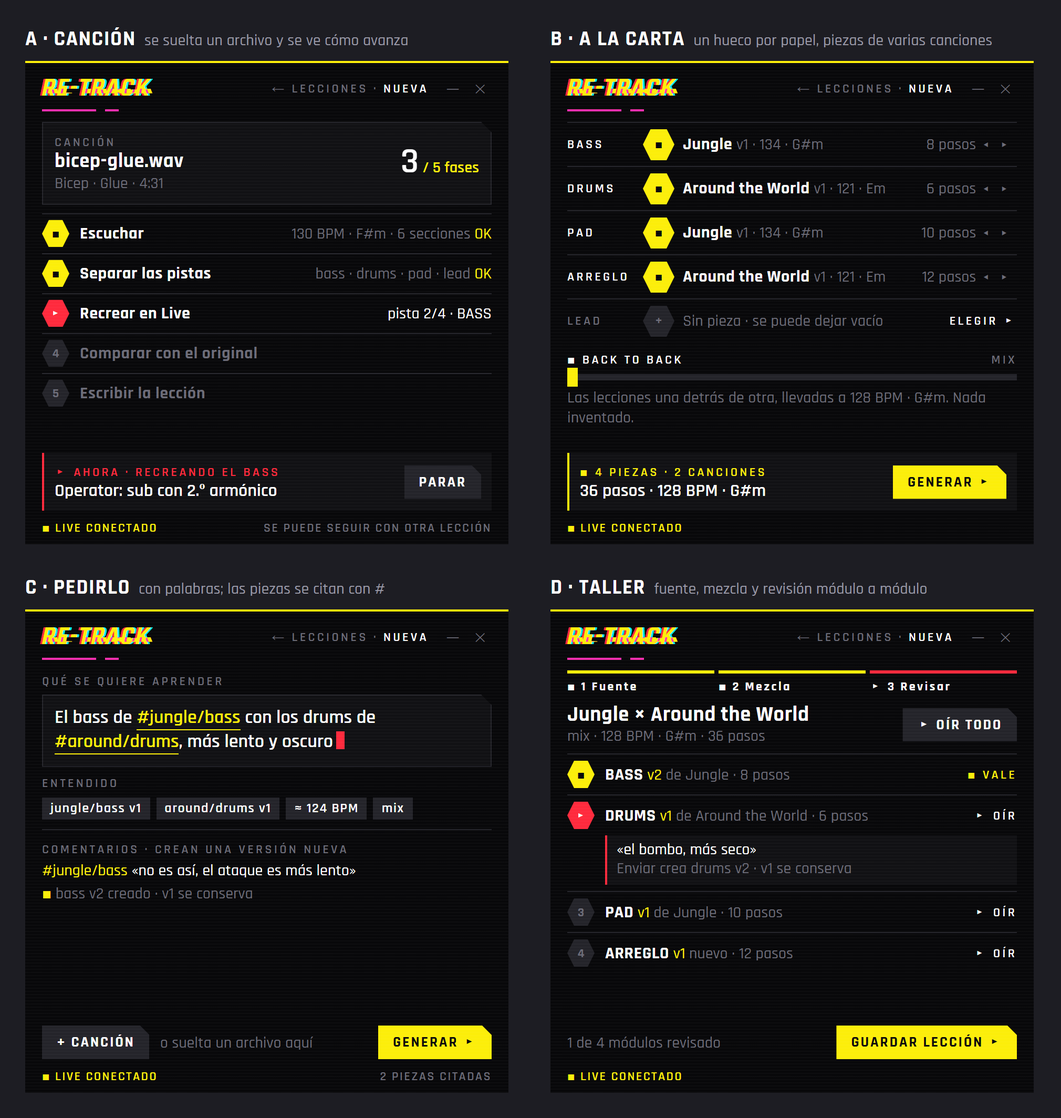
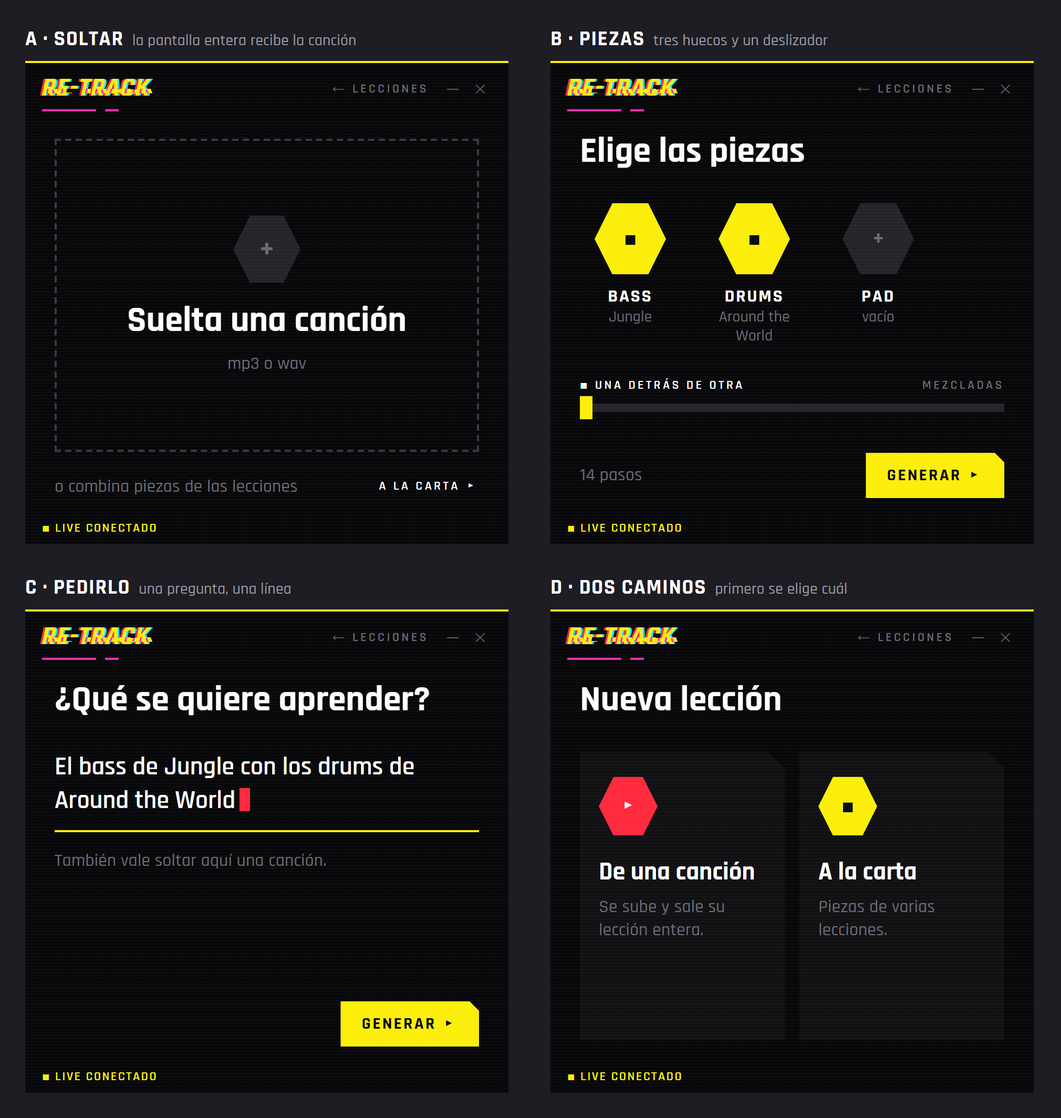
Docs: second round of home and new-lesson proposals, with room to breathe

diff --git a/docs/design/inicio/propuestas.html b/docs/design/inicio/propuestas.html
@@ -2,131 +2,84 @@
 <html lang="es">
 <head>
 <meta charset="utf-8">
-<title>Re-track · pantalla de inicio · cuatro propuestas</title>
-<!-- Cuatro propuestas de la pantalla de inicio (2026-11-24): qué canciones hay, cómo va cada una y por dónde se sigue.
-     Ventana real: 460×460. Jungle y Primera lección salen de lecciones/*.json (módulos, pasos, tempo, tonalidad);
-     su progreso, «Around the World» y «Glue» son de muestra. -->
+<title>Re-track · pantalla de inicio · cuatro propuestas (segunda ronda, con aire)</title>
+<!-- Segunda ronda (2026-11-24): la primera se descartó por apretada («no podemos respirar»). Regla de esta ronda: tres cosas
+     por pantalla como mucho, letra grande, separar con espacio y no con líneas. Ventana real: 460×460.
+     Jungle y Primera lección salen de lecciones/*.json; su progreso y «Around the World» son de muestra. -->
 <link rel="stylesheet" href="../propuestas.css">
 <style>
-  .titulo { display: flex; justify-content: space-between; align-items: baseline; margin-bottom: 6px; }
+  .aire { position: absolute; inset: 58px 28px 36px; display: flex; flex-direction: column; }
+  .fila { display: flex; align-items: center; gap: 14px; }
+  .gr { flex: 1; min-width: 0; }
+  .suave { font-size: 17px; color: var(--tenue); }
+  .cta.gr2 { padding: 11px 20px; font-size: 16px; }
+  .bloques { height: 8px; }
+  .abajo { margin-top: auto; margin-bottom: 8px; }
 
-  /* A · Lista */
-  .a-fila { display: grid; grid-template-columns: 30px 1fr auto; gap: 4px 10px; align-items: center; padding: 8px 0 9px; border-top: 1px solid var(--linea); }
-  .a-fila b { font: 700 17px/1 Rajdhani; color: #fff; letter-spacing: .02em; }
-  .a-fila small { font-size: 14px; color: var(--tenue); margin-left: 6px; }
-  .a-fila .pct { font: 600 20px/1 Rajdhani; }
-  .a-fila .bloques { grid-column: 2 / 4; }
-  .nueva { display: flex; justify-content: space-between; align-items: center; padding: 8px 0; border-top: 1px solid var(--linea); border-bottom: 1px solid var(--linea); margin-bottom: 8px; }
+  .a-nombre { font: 700 60px/1 Rajdhani; color: #fff; margin: 6px 0 4px; }
+  .a-pct { font: 600 34px/1 Rajdhani; color: var(--amarillo); }
 
-  /* B · Portada */
-  .b-hero { padding: 10px 12px 12px; }
-  .b-hero .nombre { font: 700 38px/1 Rajdhani; color: #fff; letter-spacing: .01em; }
-  .b-hero .pct { font: 600 38px/1 Rajdhani; color: var(--amarillo); }
-  .b-hero p { margin: 9px 0 0; display: flex; align-items: center; gap: 10px; }
-  .b-hero p > span:first-child { flex: 1; min-width: 0; }
-  .b-hero strong { display: block; font: 600 16px/1.15 Rajdhani; color: #fff; }
-  .b-rejilla { display: grid; grid-template-columns: 1fr 1fr; gap: 8px; margin-top: 8px; }
-  .b-rejilla > div { padding: 8px 10px 10px; height: 92px; box-sizing: border-box; display: flex; flex-direction: column; justify-content: space-between; }
-  .b-rejilla b { display: block; font: 700 16px/1.1 Rajdhani; color: #fff; }
-  .b-rejilla .mas { border: 1px dashed #3a3a44; background: none; clip-path: none; }
+  .b-fila { height: 92px; }
+  .b-fila .hex, .mas { width: 44px; height: 44px; font-size: 15px; }
+  .b-fila b { display: block; font: 700 26px/1.1 Rajdhani; color: #fff; }
+  .b-fila .pct { font: 600 26px/1 Rajdhani; }
 
-  /* C · Piezas */
-  .c-fila { padding: 6px 0 7px; border-top: 1px solid var(--linea); }
-  .c-fila .piezas { display: flex; gap: 4px; margin-top: 6px; }
-  .c-fila .pieza { width: 58px; text-align: center; font: 600 11px/1 Rajdhani; letter-spacing: .08em; color: var(--tenue); }
-  .c-fila .pieza .hex { margin: 0 auto 3px; }
-  .c-fila .pieza.viva { color: #fff; }
+  .c-hexes { display: flex; justify-content: space-between; align-items: flex-start; margin-top: 34px; }
+  .c-hexes > div { width: 92px; text-align: center; line-height: 1.2; }
+  .c-hexes .hex { width: 68px; height: 68px; margin: 0 auto 12px; font-size: 20px; }
+  .c-hexes b { display: block; font: 700 17px/1.1 Rajdhani; color: #fff; }
 
-  /* D · Dos puertas */
-  .d-puerta { padding: 9px 12px 11px; }
-  .d-puerta + .d-puerta { margin-top: 8px; }
-  .d-otras > :nth-child(even) { text-align: right; }
-  .d-otras { display: grid; grid-template-columns: 1fr auto; gap: 3px 10px; margin-top: 9px; padding-top: 7px; border-top: 1px solid var(--linea); font-size: 15px; }
-  .d-suelta { display: flex; align-items: center; gap: 10px; margin-top: 7px; padding: 9px 10px; border: 1px dashed #3a3a44; }
-  .d-suelta > span:first-child { flex: 1; }
-  .d-suelta strong { display: block; font: 600 16px/1.15 Rajdhani; color: #fff; }
+  .d-grande { margin-top: 14px; padding: 22px 24px 24px; background: var(--amarillo); color: #08080a;
+    clip-path: polygon(0 0, calc(100% - 18px) 0, 100% 18px, 100% 100%, 0 100%); }
+  .d-grande b { display: block; font: 700 44px/1 Rajdhani; margin: 2px 0 6px; }
+  .d-grande span { font: 600 17px Rajdhani; }
+  .d-otra { padding: 18px 24px; background: var(--panel); margin-top: 12px; font: 700 22px Rajdhani; color: #fff; }
 </style>
 </head>
 <body>
 <script>
-// [módulo, pasos, hechos]. Jungle y Primera lección: lecciones/*.json. Las otras dos son de muestra.
+// [pasos, hechos] por módulo.
 const L = [
-  { t: "Jungle", a: "Fred again..", bpm: 134, k: "G#m", m: [["PAD", 10, 10], ["LEAD", 7, 7], ["BASS", 8, 6], ["DRUMS", 8, 0], ["ARREGLO", 13, 0], ["MEZCLA", 6, 0]] },
-  { t: "Around the World", a: "Daft Punk", bpm: 121, k: "Em", m: [["BASS", 9, 0], ["DRUMS", 6, 0], ["GUITARRA", 7, 0], ["VOCODER", 8, 0], ["ARREGLO", 12, 0]] },
-  { t: "Primera lección", a: "Re-track", bpm: 124, k: "C", m: [["BASE", 3, 3]] },
-  { t: "Glue", a: "Bicep", bpm: 130, k: "F#m", m: [], gen: "Recreando en Live · 3/5" },
+  { t: "Jungle", a: "Fred again..", m: [[10, 10], [7, 7], [8, 6], [8, 0], [13, 0], [6, 0]] },
+  { t: "Around the World", a: "Daft Punk", m: [[9, 0], [6, 0], [7, 0], [8, 0], [12, 0]] },
+  { t: "Primera lección", a: "Re-track", m: [[3, 3]] },
 ];
-const total = (l) => l.m.reduce((s, m) => s + m[1], 0), hechos = (l) => l.m.reduce((s, m) => s + m[2], 0);
+const total = (l) => l.m.reduce((s, m) => s + m[0], 0), hechos = (l) => l.m.reduce((s, m) => s + m[1], 0);
 const pct = (l) => Math.round((hechos(l) / total(l)) * 100);
-const actual = (l) => l.m.find((m) => m[2] < m[1]);
-// Estado de una lección: gen (se está generando), on (completa), sig (empezada), "" (sin empezar).
-const estado = (l) => (l.gen ? "gen" : hechos(l) === total(l) ? "on" : hechos(l) ? "sig" : "");
-const SIMBOLO = { gen: "…", on: "■", sig: "▸", "": "" };
-const cifra = (l) => l.gen ? `<span class="te">…</span>` : estado(l) === "on" ? `<span class="am">■ OK</span>`
-  : `<span class="num ${hechos(l) ? "bl" : "te"}">${pct(l)} %</span>`;
-const meta = (l) => `${l.bpm} BPM · ${l.k}`;
-const bloques = (l) => l.gen ? `<div class="bloques"><i class="hex gen" style="flex:1;clip-path:none;width:auto;height:auto"></i></div>`
-  : `<div class="bloques">${l.m.map((m) => `<i style="flex:${m[1]}"><b style="width:${(m[2] / m[1]) * 100}%"></b>${
-      m === actual(l) && hechos(l) ? `<u style="left:${(m[2] / m[1]) * 100}%"></u>` : ""}</i>`).join("")}</div>`;
-const dos = (n) => String(n).padStart(2, "0");
-const J = L[0], act = actual(J);
-const SIG = { donde: `${J.t} · ${act[0]} ${dos(act[2] + 1)}/${dos(act[1])}`, que: "Osc-B Level → 0.80–0.92" };
+const estado = (l) => (hechos(l) === total(l) ? "on" : hechos(l) ? "sig" : "");
+const SIMBOLO = { on: "■", sig: "▸", "": "" };
+const cifra = (l) => estado(l) === "on" ? `<span class="am">■ OK</span>` : `<span class="num ${hechos(l) ? "bl" : "te"}">${pct(l)} %</span>`;
+const bloques = (l) => `<div class="bloques">${l.m.map((m) => `<i style="flex:${m[0]}"><b style="width:${(m[1] / m[0]) * 100}%"></b></i>`).join("")}</div>`;
+const J = L[0];
 const cab = (ruta) => `<div class="cab"><span class="logo">RE-TRACK</span><span class="ruta">${ruta}</span>
   <span class="vent">―</span><span class="vent">✕</span></div><div class="glitch"></div>`;
-const pie = (der) => `<div class="pie"><span class="am">■ Live conectado</span><span>${der}</span></div>`;
-const sigCaja = `<div class="sig-caja"><div><span class="et ro">▸ Seguir · ${SIG.donde}</span><strong>${SIG.que}</strong></div><span class="cta">Continuar ▸</span></div>`;
-const celda = (letra, nombre, idea, html) =>
-  `<div class="celda"><h2>${letra} · ${nombre}<small>${idea}</small></h2><div class="app">${html}</div></div>`;
-const hechas = L.filter((l) => !l.gen);
+const pie = `<div class="pie"><span class="am">■ Live conectado</span></div>`;
+const celda = (letra, nombre, idea, ruta, html) =>
+  `<div class="celda"><h2>${letra} · ${nombre}<small>${idea}</small></h2><div class="app">${cab(ruta)}<div class="aire">${html}</div>${pie}</div></div>`;
 
-// A · Lista: una fila por canción, la barra dice cuánto y de qué módulo.
-const A = `${cab("<b>Lecciones</b>")}
-  ${L.map((l) => `<div class="a-fila"><span class="hex ${estado(l)}">${SIMBOLO[estado(l)]}</span>
-    <span><b>${l.t}</b><small>${l.a} · ${l.gen ? `<span class="bl">${l.gen}</span>` : meta(l)}</small></span>
-    <span class="pct">${cifra(l)}</span>${bloques(l)}</div>`).join("")}
-  <div class="nueva"><span class="et">+ Nueva lección · sube una canción o combina piezas</span><span class="et bl">▸</span></div>
-  ${sigCaja}${pie(`${hechas.length} lecciones · 1 en marcha`)}`;
+// A · Una a la vez: una sola canción en pantalla; las flechas pasan a la siguiente.
+const A = `<div style="margin-top:22px"><span class="et ro">▸ Donde se dejó</span><div class="a-nombre">${J.t}</div><span class="suave">${J.a}</span></div>
+  <div style="margin-top:34px">${bloques(J)}<div class="fila" style="margin-top:12px"><span class="a-pct num gr">${pct(J)} %</span><span class="suave">Bass · paso 7 de 8</span></div></div>
+  <div class="fila abajo"><span class="suave gr">◂ &nbsp;1 de ${L.length}&nbsp; ▸</span><span class="cta gr2">Continuar ▸</span></div>`;
 
-// B · Portada: donde se dejó, en grande; el resto, en fichas.
-const B = `${cab("<b>Lecciones</b>")}
-  <div class="corte b-hero"><span class="et ro">▸ Donde se dejó</span>
-    <div style="display:flex;justify-content:space-between;align-items:flex-end;margin:2px 0 8px">
-      <div><div class="nombre">${J.t}</div><span class="te">${J.a} · ${meta(J)} · ${J.m.length} módulos</span></div>
-      <div class="pct num">${pct(J)} %</div></div>
-    ${bloques(J)}
-    <p><span><span class="et">${act[0]} · paso ${dos(act[2] + 1)}/${dos(act[1])}</span><strong>${SIG.que}</strong></span><span class="cta">Continuar ▸</span></p></div>
-  <div class="b-rejilla">${L.slice(1).map((l) => `<div class="corte"><span><b>${l.t}</b><span class="te">${l.a} · ${l.gen ? "generando" : meta(l)}</span></span>
-      <span>${l.gen ? `<span class="et bl">… ${l.gen}</span>` : `<span style="display:flex;align-items:center;gap:8px"><span style="flex:1">${bloques(l)}</span>${cifra(l)}</span>`}</span></div>`).join("")}
-    <div class="mas"><b>+ Nueva lección</b><span class="te">una canción o piezas sueltas</span></div></div>
-  ${pie(`${hechas.length} lecciones · 1 en marcha`)}`;
+// B · Tres filas: solo el nombre y el porcentaje; tocar una fila entra en ella.
+const B = `${L.map((l) => `<div class="fila b-fila"><span class="hex ${estado(l)}">${SIMBOLO[estado(l)]}</span>
+    <span class="gr"><b>${l.t}</b><span class="suave">${l.a}</span></span><span class="pct">${cifra(l)}</span></div>`).join("")}
+  <div class="fila abajo"><span class="hex mas bl" style="font-size:18px">+</span><span style="font:700 20px Rajdhani" class="bl">Nueva lección</span></div>`;
 
-// C · Piezas: cada canción enseña sus módulos; se entra directo en cualquiera.
-const pieza = (l, m) => { const e = m[2] >= m[1] ? "on" : m === actual(l) && hechos(l) ? "sig" : "";
-  return `<div class="pieza ${e ? "viva" : ""}"><span class="hex ${e}">${e === "on" ? "■" : e === "sig" ? "▸" : m[1]}</span>${m[0]}</div>`; };
-const C = `${cab("<b>Lecciones</b>")}
-  ${hechas.map((l) => `<div class="c-fila"><div class="titulo" style="margin:0"><span><h1 style="display:inline">${l.t}</h1> <span class="te">${l.a} · ${meta(l)}</span></span>
-      <span style="font:600 17px/1 Rajdhani">${cifra(l)}</span></div><div class="piezas">${l.m.map((m) => pieza(l, m)).join("")}</div></div>`).join("")}
-  <div class="nueva"><span class="et"><span class="bl">… Glue</span> · ${L[3].gen}</span><span class="et bl">+ Nueva ▸</span></div>
-  ${sigCaja}${pie("12 piezas · 3 canciones")}`;
+// C · Camino: las canciones son hexágonos, como los módulos dentro de una lección.
+const C = `<div class="c-hexes">${L.map((l) => `<div><span class="hex ${estado(l)}">${SIMBOLO[estado(l)]}</span><b>${l.t}</b><span class="te">${estado(l) === "on" ? "OK" : pct(l) + " %"}</span></div>`).join("")}
+    <div><span class="hex bl">+</span><b>Nueva</b></div></div>
+  <div class="fila abajo"><span class="gr"><span class="et ro">▸ Jungle</span><br><span style="font:600 20px Rajdhani" class="bl">Bass · paso 7 de 8</span></span><span class="cta gr2">Continuar ▸</span></div>`;
 
-// D · Dos puertas: aprender arriba, crear abajo.
-const D = `${cab("<b>Inicio</b>")}
-  <div class="corte d-puerta"><span class="et ro">▸ Aprender · donde se dejó</span>
-    <div style="display:flex;align-items:center;gap:10px;margin-top:3px"><div style="flex:1;min-width:0">
-      <h1 style="font-size:24px">${J.t} <span class="am num" style="font-weight:600">${pct(J)} %</span></h1>
-      <span class="te">${act[0]} · paso ${dos(act[2] + 1)}/${dos(act[1])}</span><br><b class="bl" style="font-weight:600">${SIG.que}</b></div><span class="cta">Continuar ▸</span></div>
-    <div style="margin-top:8px">${bloques(J)}</div>
-    <div class="d-otras">${L.slice(1, 3).map((l) => `<span><b class="bl">${l.t}</b> <span class="te">${l.a} · ${meta(l)}</span></span>${cifra(l)}`).join("")}
-      <span class="et" style="grid-column:1/3;margin-top:2px">Todas las lecciones (${hechas.length}) ▸</span></div></div>
-  <div class="corte d-puerta"><span class="et">+ Crear · una lección nueva con IA</span>
-    <div class="d-suelta"><span><strong>Suelta aquí una canción</strong><span class="te">mp3 o wav · sale una lección</span></span><span class="sec">Elegir ▸</span></div>
-    <div class="titulo" style="margin:8px 0 0"><span class="et"><span class="bl">… Glue</span> · ${L[3].gen}</span><span class="et bl">A la carta ▸</span></div></div>
-  ${pie("")}`;
+// D · Dos botones: seguir o elegir; nada más.
+const D = `<div class="d-grande"><span>CONTINUAR ▸</span><b>${J.t}</b><span class="num">${pct(J)} % · Bass, paso 7 de 8</span></div>
+  <div class="d-otra fila"><span class="gr">Otra lección</span><span class="suave">${L.length} canciones ▸</span></div>
+  <div class="d-otra fila"><span class="gr">+ Nueva lección</span><span class="suave">con IA ▸</span></div>`;
 
-document.body.innerHTML = celda("A", "LISTA", "una fila por canción", A) + celda("B", "PORTADA", "donde se dejó, en grande", B) +
-  celda("C", "PIEZAS", "cada canción enseña sus módulos", C) + celda("D", "DOS PUERTAS", "aprender arriba, crear abajo", D);
+document.body.innerHTML = celda("A", "UNA A LA VEZ", "una canción en pantalla, flechas para cambiar", "<b>+ Nueva</b>", A) + celda("B", "TRES FILAS", "nombre y porcentaje, nada más", "", B) +
+  celda("C", "CAMINO", "las canciones como hexágonos", "", C) + celda("D", "DOS BOTONES", "seguir o elegir", "", D);
 console.assert(hechos(J) === 23 && total(J) === 52 && pct(J) === 44, "Jungle: 23/52");
-console.assert(hechas.reduce((s, l) => s + l.m.length, 0) === 12, "piezas");
 </script>
 </body>
 </html>

diff --git a/docs/design/ia/propuestas.html b/docs/design/ia/propuestas.html
@@ -2,121 +2,73 @@
 <html lang="es">
 <head>
 <meta charset="utf-8">
-<title>Re-track · pantalla de nueva lección (IA) · cuatro propuestas</title>
-<!-- Cuatro propuestas de la pantalla que genera lecciones con IA (2026-11-24), a partir del esquema de Matthieu del
-     2026-11-03 (docs/DESIGN.md, «Visión ampliada»): subir una canción, piezas de varias canciones, back to back | mix,
-     comentarios pegados a un módulo y versiones. Ventana real: 460×460. Los pasos de Jungle salen de
-     lecciones/jungle.json; «Around the World», «Glue», las fases y los comentarios son de muestra. -->
+<title>Re-track · pantalla de nueva lección (IA) · cuatro propuestas (segunda ronda, con aire)</title>
+<!-- Segunda ronda (2026-11-24): la primera se descartó por apretada. Regla: una sola decisión por pantalla, letra grande,
+     separar con espacio. Parte del esquema de Matthieu del 2026-11-03 (docs/DESIGN.md, «Visión ampliada»).
+     Ventana real: 460×460. Las canciones y los pasos son de muestra. -->
 <link rel="stylesheet" href="../propuestas.css">
 <style>
-  .fila { display: flex; align-items: center; gap: 10px; }
-  .fila > .gr { flex: 1; min-width: 0; }
-  .nombre { font: 700 16px/1.1 Rajdhani; color: #fff; letter-spacing: .02em; }
-  .caja { padding: 8px 11px 10px; }
-  .abajo { position: absolute; left: 16px; right: 16px; bottom: 32px; }
-  .sig-caja.ok { border-color: var(--amarillo); }
+  .aire { position: absolute; inset: 58px 28px 36px; display: flex; flex-direction: column; }
+  .fila { display: flex; align-items: center; gap: 14px; }
+  .gr { flex: 1; min-width: 0; }
+  .suave { font-size: 17px; color: var(--tenue); line-height: 1.3; }
+  .cta.gr2 { padding: 11px 20px; font-size: 16px; }
+  .grande { font: 700 34px/1.1 Rajdhani; color: #fff; }
+  .abajo { margin-top: auto; margin-bottom: 8px; }
 
-  /* A · Canción */
-  .a-fase { height: 37px; border-top: 1px solid var(--linea); }
-  .a-fase.off .nombre { color: var(--tenue); }
-  .a-fase .hex { width: 26px; height: 26px; }
-  .a-lect { font: 600 34px/1 Rajdhani; color: #fff; }
-  .a-lect small { font-size: 15px; color: var(--amarillo); }
+  .a-zona { flex: 1; margin: 14px 0 22px; border: 2px dashed #3a3a44; display: flex; flex-direction: column; align-items: center; justify-content: center; gap: 10px; text-align: center; }
+  .a-zona .hex { width: 64px; height: 64px; font-size: 26px; margin-bottom: 8px; }
 
-  /* B · A la carta */
-  .b-hueco { display: grid; grid-template-columns: 64px 30px 1fr auto; align-items: center; gap: 8px; height: 41px; border-top: 1px solid var(--linea); }
-  .b-hueco .flechas { letter-spacing: .5em; color: var(--tenue); font-size: 13px; }
-  .desl { margin: 9px 0 3px; }
-  .desl .via { position: relative; height: 6px; background: var(--hueco); margin: 6px 0 7px; }
-  .desl .via i { position: absolute; top: -6px; width: 10px; height: 18px; background: var(--amarillo); }
+  .b-hexes { display: flex; gap: 22px; margin-top: 30px; }
+  .b-hexes > div { width: 96px; text-align: center; line-height: 1.2; }
+  .b-hexes .hex { width: 68px; height: 68px; margin: 0 auto 10px; font-size: 20px; }
+  .b-hexes b { display: block; font: 700 17px Rajdhani; letter-spacing: .08em; color: #fff; }
+  .via { position: relative; height: 8px; background: var(--hueco); margin: 10px 0 0; }
+  .via i { position: absolute; top: -7px; left: 0; width: 12px; height: 22px; background: var(--amarillo); }
 
-  /* C · Pedirlo */
-  .c-pide { padding: 9px 11px 11px; font: 600 18px/1.3 Rajdhani; color: #fff; }
-  .ref { color: var(--amarillo); border-bottom: 1px solid var(--amarillo); white-space: nowrap; }
-  .cursor { display: inline-block; width: 8px; height: 17px; background: var(--rojo); vertical-align: -2px; margin-left: 3px; }
-  .chips { display: flex; flex-wrap: wrap; gap: 6px; margin: 6px 0 9px; }
-  .chip { padding: 2px 8px 3px; background: var(--hueco); font: 600 13px Rajdhani; letter-spacing: .06em; color: #fff; }
-  .c-hilo { padding: 8px 0 0; border-top: 1px solid var(--linea); }
-  .c-hilo p { margin: 3px 0 0; line-height: 1.25; }
+  .c-linea { margin-top: 30px; padding-bottom: 12px; border-bottom: 2px solid var(--amarillo); font: 600 24px/1.3 Rajdhani; color: #fff; }
+  .cursor { display: inline-block; width: 10px; height: 22px; background: var(--rojo); vertical-align: -3px; margin-left: 4px; }
 
-  /* D · Taller */
-  .tramos3 { display: grid; grid-template-columns: repeat(3, 1fr); gap: 4px; margin-bottom: 8px; }
-  .tramos3 span { padding-top: 5px; border-top: 3px solid var(--hueco); font: 700 12px Rajdhani; letter-spacing: .14em; color: var(--tenue); }
-  .tramos3 .on { border-color: var(--amarillo); color: #fff; }
-  .tramos3 .sig { border-color: var(--rojo); color: #fff; }
-  .d-mod { height: 38px; border-top: 1px solid var(--linea); }
-  .d-mod .hex { width: 26px; height: 26px; }
-  .d-nota { margin: 0 0 6px 36px; padding: 5px 9px 6px; border-left: 2px solid var(--rojo); background: var(--panel); line-height: 1.2; }
+  .d-dos { display: grid; grid-template-columns: 1fr 1fr; gap: 14px; margin: 30px 0 14px; flex: 1; }
+  .d-dos > div { padding: 24px 18px; background: var(--panel); clip-path: polygon(0 0, calc(100% - 16px) 0, 100% 16px, 100% 100%, 0 100%); }
+  .d-dos .hex { width: 56px; height: 56px; font-size: 20px; margin-bottom: 22px; }
+  .d-dos b { display: block; font: 700 24px/1.1 Rajdhani; color: #fff; margin-bottom: 8px; }
 </style>
 </head>
 <body>
 <script>
-const cab = (ruta) => `<div class="cab"><span class="logo">RE-TRACK</span><span class="ruta">${ruta}</span>
+const cab = `<div class="cab"><span class="logo">RE-TRACK</span><span class="ruta">← Lecciones</span>
   <span class="vent">―</span><span class="vent">✕</span></div><div class="glitch"></div>`;
-const pie = (der) => `<div class="pie"><span class="am">■ Live conectado</span><span>${der}</span></div>`;
+const pie = `<div class="pie"><span class="am">■ Live conectado</span></div>`;
 const celda = (letra, nombre, idea, html) =>
-  `<div class="celda"><h2>${letra} · ${nombre}<small>${idea}</small></h2><div class="app">${html}</div></div>`;
-const RUTA = "← Lecciones · <b>Nueva</b>";
+  `<div class="celda"><h2>${letra} · ${nombre}<small>${idea}</small></h2><div class="app">${cab}<div class="aire">${html}</div>${pie}</div></div>`;
 
-// A · Canción: se suelta un archivo y la pantalla enseña en qué fase va la generación.
-const FASES = [["Escuchar", "130 BPM · F#m · 6 secciones", "on"], ["Separar las pistas", "bass · drums · pad · lead", "on"],
-  ["Recrear en Live", "pista 2/4 · BASS", "sig"], ["Comparar con el original", "", ""], ["Escribir la lección", "", ""]];
-const hechas = FASES.filter((f) => f[2] === "on").length;
-const A = `${cab(RUTA)}
-  <div class="corte caja fila"><div class="gr"><span class="et">Canción</span><div class="nombre" style="font-size:19px">bicep-glue.wav</div>
-      <span class="te">Bicep · Glue · 4:31</span></div>
-    <div class="a-lect num">${hechas + 1}<small> / ${FASES.length} fases</small></div></div>
-  <div style="margin-top:8px">${FASES.map(([n, d, e], i) => `<div class="fila a-fase ${e ? "" : "off"}">
-    <span class="hex ${e}">${e === "on" ? "■" : e === "sig" ? "▸" : i + 1}</span><span class="nombre gr">${n}</span>
-    <span class="${e === "sig" ? "bl" : "te"}">${e === "on" ? `${d} <span class="am">OK</span>` : d}</span></div>`).join("")}</div>
-  <div class="abajo sig-caja"><div><span class="et ro">▸ Ahora · recreando el bass</span><strong>Operator: sub con 2.º armónico</strong></div><span class="sec">Parar</span></div>
-  ${pie("Se puede seguir con otra lección")}`;
+// A · Soltar: toda la pantalla es el sitio donde cae la canción.
+const A = `<div class="a-zona"><span class="hex bl">+</span><span class="grande">Suelta una canción</span><span class="suave">mp3 o wav</span></div>
+  <div class="fila" style="margin-bottom:8px"><span class="suave gr">o combina piezas de las lecciones</span><span class="et bl">A la carta ▸</span></div>`;
 
-// B · A la carta: un hueco por papel, una pieza de cualquier canción en cada uno, y el deslizador.
-const HUECOS = [["BASS", "Jungle", "v1 · 134 · G#m", 8], ["DRUMS", "Around the World", "v1 · 121 · Em", 6],
-  ["PAD", "Jungle", "v1 · 134 · G#m", 10], ["ARREGLO", "Around the World", "v1 · 121 · Em", 12], ["LEAD", null]];
-const puestas = HUECOS.filter((h) => h[1]), pasos = puestas.reduce((s, h) => s + h[3], 0);
-const B = `${cab(RUTA)}
-  ${HUECOS.map(([papel, de, meta, n]) => `<div class="b-hueco"><span class="et ${de ? "bl" : ""}">${papel}</span>
-    <span class="hex ${de ? "on" : ""}">${de ? "■" : "+"}</span>
-    ${de ? `<span><span class="nombre">${de}</span> <span class="te">${meta}</span></span><span class="num te">${n} pasos <span class="flechas">◂▸</span></span>`
-      : `<span class="te">Sin pieza · se puede dejar vacío</span><span class="et bl">Elegir ▸</span>`}</div>`).join("")}
-  <div class="desl"><div class="fila"><span class="et bl gr">■ Back to back</span><span class="et">Mix</span></div>
-    <div class="via"><i style="left:0"></i></div>
-    <span class="te">Las lecciones una detrás de otra, llevadas a 128 BPM · G#m. Nada inventado.</span></div>
-  <div class="abajo sig-caja ok"><div><span class="et am">■ ${puestas.length} piezas · 2 canciones</span><strong class="num">${pasos} pasos · 128 BPM · G#m</strong></div><span class="cta">Generar ▸</span></div>
-  ${pie("")}`;
+// B · Piezas: tres huecos grandes y el deslizador.
+const PIEZAS = [["BASS", "Jungle", 8], ["DRUMS", "Around the World", 6], ["PAD", null]];
+const pasos = PIEZAS.reduce((s, p) => s + (p[2] ?? 0), 0);
+const B = `<span class="grande" style="margin-top:8px">Elige las piezas</span>
+  <div class="b-hexes">${PIEZAS.map(([papel, de]) => `<div><span class="hex ${de ? "on" : "bl"}">${de ? "■" : "+"}</span><b>${papel}</b><span class="te">${de ?? "vacío"}</span></div>`).join("")}</div>
+  <div style="margin-top:30px"><div class="fila"><span class="et bl gr">■ Una detrás de otra</span><span class="et">Mezcladas</span></div><div class="via"><i></i></div></div>
+  <div class="fila abajo"><span class="suave gr num">${pasos} pasos</span><span class="cta gr2">Generar ▸</span></div>`;
 
-// C · Pedirlo: se escribe lo que se quiere; las piezas se citan con # y los comentarios crean versiones.
-const ref = (t) => `<span class="ref">#${t}</span>`;
-const C = `${cab(RUTA)}
-  <span class="et">Qué se quiere aprender</span>
-  <div class="corte c-pide" style="margin-top:4px">El bass de ${ref("jungle/bass")} con los drums de ${ref("around/drums")}, más lento y oscuro<span class="cursor"></span></div>
-  <div class="chips" style="margin-top:8px"><span class="et" style="flex-basis:100%">Entendido</span><span class="chip">jungle/bass v1</span><span class="chip">around/drums v1</span>
-    <span class="chip">≈ 124 BPM</span><span class="chip">mix</span></div>
-  <div class="c-hilo"><span class="et">Comentarios · crean una versión nueva</span>
-    <p><span class="am">#jungle/bass</span> <span class="bl">«no es así, el ataque es más lento»</span></p>
-    <p class="te"><span class="am">■</span> bass v2 creado · v1 se conserva</p></div>
-  <div class="abajo fila"><span class="sec">+ Canción</span><span class="gr te">o suelta un archivo aquí</span><span class="cta">Generar ▸</span></div>
-  ${pie("2 piezas citadas")}`;
+// C · Pedirlo: una pregunta y una línea para escribir.
+const C = `<span class="grande" style="margin-top:8px">¿Qué se quiere aprender?</span>
+  <div class="c-linea">El bass de Jungle con los drums de Around the World<span class="cursor"></span></div>
+  <span class="suave" style="margin-top:16px">También vale soltar aquí una canción.</span>
+  <div class="fila abajo"><span class="gr"></span><span class="cta gr2">Generar ▸</span></div>`;
 
-// D · Taller: tres pasos en una pantalla; aquí el tercero, donde se revisa lo generado módulo a módulo.
-const MODS = [["BASS", "v2", "de Jungle · 8 pasos", "on"], ["DRUMS", "v1", "de Around the World · 6 pasos", "sig"],
-  ["PAD", "v1", "de Jungle · 10 pasos", ""], ["ARREGLO", "v1", "nuevo · 12 pasos", ""]];
-const D = `${cab(RUTA)}
-  <div class="tramos3"><span class="on">■ 1 Fuente</span><span class="on">■ 2 Mezcla</span><span class="sig">▸ 3 Revisar</span></div>
-  <div class="fila" style="margin-bottom:7px"><div class="gr"><h1 style="font-size:20px">Jungle × Around the World</h1><span class="te">mix · 128 BPM · G#m · ${pasos} pasos</span></div>
-    <span class="sec">▸ Oír todo</span></div>
-  ${MODS.map(([n, v, d, e], i) => `<div class="fila d-mod"><span class="hex ${e}">${e === "on" ? "■" : e === "sig" ? "▸" : i + 1}</span>
-    <span class="gr"><span class="nombre">${n}</span> <span class="am num">${v}</span> <span class="te">${d}</span></span>
-    <span class="et ${e === "on" ? "am" : "bl"}">${e === "on" ? "■ Vale" : "▸ Oír"}</span></div>${
-    e === "sig" ? `<div class="d-nota"><span class="bl">«el bombo, más seco»</span><br><span class="te">Enviar crea drums v2 · v1 se conserva</span></div>` : ""}`).join("")}
-  <div class="abajo fila"><span class="gr te">1 de ${MODS.length} módulos revisado</span><span class="cta">Guardar lección ▸</span></div>
-  ${pie("")}`;
+// D · Dos caminos: primero se elige cuál; cada uno tiene luego su pantalla.
+const D = `<span class="grande" style="margin-top:8px">Nueva lección</span>
+  <div class="d-dos"><div><span class="hex sig">▸</span><b>De una canción</b><span class="suave">Se sube y sale su lección entera.</span></div>
+    <div><span class="hex on">■</span><b>A la carta</b><span class="suave">Piezas de varias lecciones.</span></div></div>`;
 
-document.body.innerHTML = celda("A", "CANCIÓN", "se suelta un archivo y se ve cómo avanza", A) + celda("B", "A LA CARTA", "un hueco por papel, piezas de varias canciones", B) +
-  celda("C", "PEDIRLO", "con palabras; las piezas se citan con #", C) + celda("D", "TALLER", "fuente, mezcla y revisión módulo a módulo", D);
-console.assert(pasos === 36 && puestas.length === 4, "36 pasos en 4 piezas");
+document.body.innerHTML = celda("A", "SOLTAR", "la pantalla entera recibe la canción", A) + celda("B", "PIEZAS", "tres huecos y un deslizador", B) +
+  celda("C", "PEDIRLO", "una pregunta, una línea", C) + celda("D", "DOS CAMINOS", "primero se elige cuál", D);
+console.assert(pasos === 14, "8 + 6 pasos");
 </script>
 </body>
 </html>
